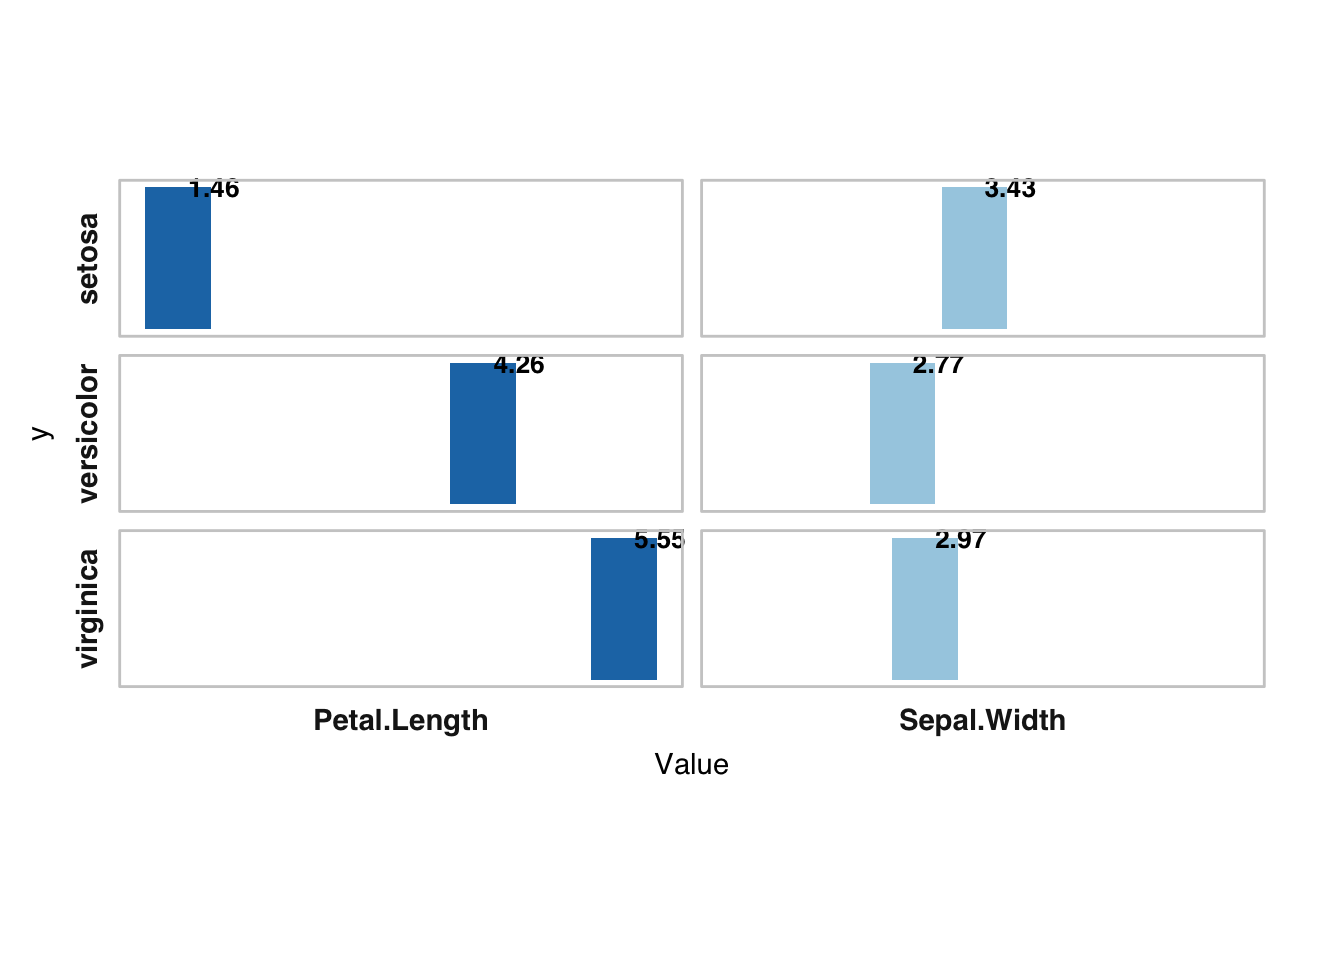
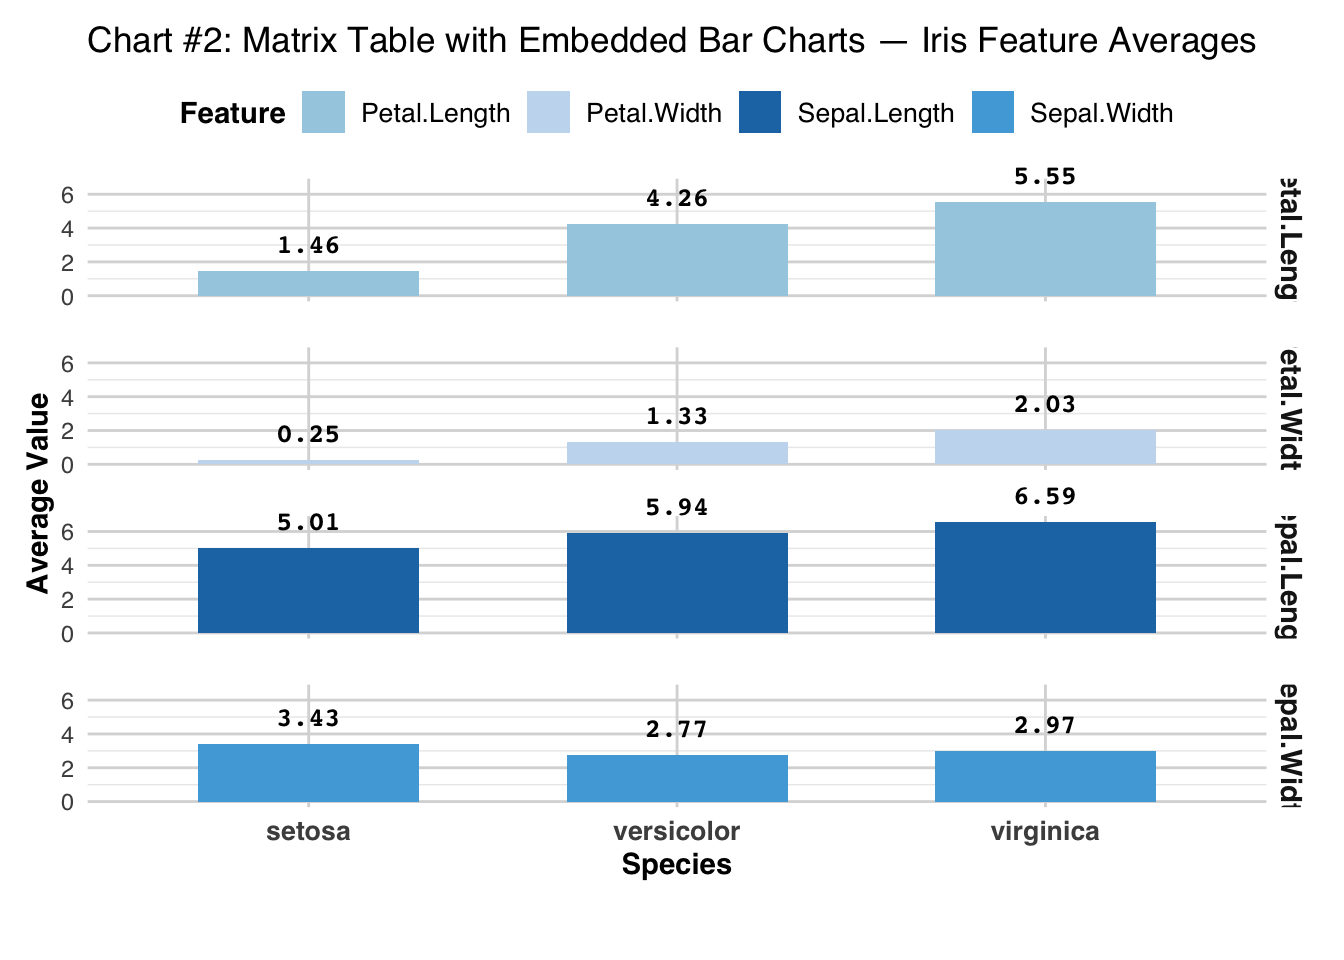
Assignment 4 Hackathon updates

diff --git a/docs/hackathon.html b/docs/hackathon.html
@@ -263,23 +263,27 @@ pre > code.sourceCode > span > a:first-child::before { text-decoration: underlin
 </div>
 </div>
 <div class="cell">
-<div class="code-copy-outer-scaffold"><div class="sourceCode cell-code" id="cb2"><pre class="sourceCode r code-with-copy"><code class="sourceCode r"><span id="cb2-1"><a href="#cb2-1" aria-hidden="true" tabindex="-1"></a>d <span class="ot">&lt;-</span> <span class="fu">reshape</span>(<span class="fu">aggregate</span>(<span class="fu">cbind</span>(Sepal.Width, Petal.Length) <span class="sc">~</span> Species, iris, mean),</span>
-<span id="cb2-2"><a href="#cb2-2" aria-hidden="true" tabindex="-1"></a>             <span class="fu">list</span>(<span class="dv">2</span><span class="sc">:</span><span class="dv">3</span>), <span class="at">v.names =</span> <span class="st">"Value"</span>, <span class="at">timevar =</span> <span class="st">"Variable"</span>,</span>
-<span id="cb2-3"><a href="#cb2-3" aria-hidden="true" tabindex="-1"></a>             <span class="at">times =</span> <span class="fu">c</span>(<span class="st">"Sepal.Width"</span>, <span class="st">"Petal.Length"</span>), <span class="at">direction =</span> <span class="st">"long"</span>)</span>
-<span id="cb2-4"><a href="#cb2-4" aria-hidden="true" tabindex="-1"></a><span class="fu">ggplot</span>(d, <span class="fu">aes</span>(<span class="at">x =</span> Value, <span class="at">y =</span> <span class="dv">1</span>, <span class="at">fill =</span> Variable)) <span class="sc">+</span></span>
+<div class="code-copy-outer-scaffold"><div class="sourceCode cell-code" id="cb2"><pre class="sourceCode r code-with-copy"><code class="sourceCode r"><span id="cb2-1"><a href="#cb2-1" aria-hidden="true" tabindex="-1"></a>d <span class="ot">&lt;-</span> <span class="fu">aggregate</span>(<span class="fu">cbind</span>(Sepal.Length, Sepal.Width, Petal.Length, Petal.Width) <span class="sc">~</span> Species, iris, mean)</span>
+<span id="cb2-2"><a href="#cb2-2" aria-hidden="true" tabindex="-1"></a>d <span class="ot">&lt;-</span> <span class="fu">reshape</span>(d, <span class="fu">list</span>(<span class="dv">2</span><span class="sc">:</span><span class="dv">5</span>), <span class="at">v.names =</span> <span class="st">"Value"</span>, <span class="at">timevar =</span> <span class="st">"Feature"</span>, <span class="at">times =</span> <span class="fu">names</span>(d)[<span class="dv">2</span><span class="sc">:</span><span class="dv">5</span>], <span class="at">direction =</span> <span class="st">"long"</span>)</span>
+<span id="cb2-3"><a href="#cb2-3" aria-hidden="true" tabindex="-1"></a></span>
+<span id="cb2-4"><a href="#cb2-4" aria-hidden="true" tabindex="-1"></a><span class="fu">ggplot</span>(d, <span class="fu">aes</span>(<span class="at">x =</span> Species, <span class="at">y =</span> Value, <span class="at">fill =</span> Feature)) <span class="sc">+</span></span>
 <span id="cb2-5"><a href="#cb2-5" aria-hidden="true" tabindex="-1"></a>  <span class="fu">geom_col</span>(<span class="at">width =</span> <span class="fl">0.6</span>) <span class="sc">+</span></span>
-<span id="cb2-6"><a href="#cb2-6" aria-hidden="true" tabindex="-1"></a>  <span class="fu">geom_text</span>(<span class="fu">aes</span>(<span class="at">label =</span> <span class="fu">round</span>(Value, <span class="dv">2</span>)), <span class="at">hjust =</span> <span class="sc">-</span><span class="fl">0.2</span>, <span class="at">color =</span> <span class="st">"black"</span>, <span class="at">size =</span> <span class="fl">3.5</span>, <span class="at">fontface =</span> <span class="st">"bold"</span>) <span class="sc">+</span></span>
-<span id="cb2-7"><a href="#cb2-7" aria-hidden="true" tabindex="-1"></a>  <span class="fu">facet_grid</span>(Species <span class="sc">~</span> Variable, <span class="at">switch =</span> <span class="st">"both"</span>) <span class="sc">+</span></span>
-<span id="cb2-8"><a href="#cb2-8" aria-hidden="true" tabindex="-1"></a>  <span class="fu">coord_fixed</span>(<span class="at">ratio =</span> <span class="fl">1.3</span>, <span class="at">clip =</span> <span class="st">"off"</span>) <span class="sc">+</span></span>
-<span id="cb2-9"><a href="#cb2-9" aria-hidden="true" tabindex="-1"></a>  <span class="fu">scale_fill_manual</span>(<span class="at">values =</span> <span class="fu">c</span>(<span class="at">Sepal.Width =</span> <span class="st">"#a6cee3"</span>, <span class="at">Petal.Length =</span> <span class="st">"#1f77b4"</span>)) <span class="sc">+</span></span>
-<span id="cb2-10"><a href="#cb2-10" aria-hidden="true" tabindex="-1"></a>  <span class="fu">theme_minimal</span>(<span class="at">base_family =</span> <span class="st">"sans"</span>) <span class="sc">+</span></span>
-<span id="cb2-11"><a href="#cb2-11" aria-hidden="true" tabindex="-1"></a>  <span class="fu">theme</span>(<span class="at">panel.border =</span> <span class="fu">element_rect</span>(<span class="at">color =</span> <span class="st">"gray80"</span>, <span class="at">fill =</span> <span class="cn">NA</span>),</span>
-<span id="cb2-12"><a href="#cb2-12" aria-hidden="true" tabindex="-1"></a>        <span class="at">panel.spacing =</span> <span class="fu">unit</span>(<span class="fl">0.5</span>, <span class="st">"lines"</span>),</span>
-<span id="cb2-13"><a href="#cb2-13" aria-hidden="true" tabindex="-1"></a>        <span class="at">strip.placement =</span> <span class="st">"outside"</span>,</span>
-<span id="cb2-14"><a href="#cb2-14" aria-hidden="true" tabindex="-1"></a>        <span class="at">strip.text =</span> <span class="fu">element_text</span>(<span class="at">face =</span> <span class="st">"bold"</span>, <span class="at">size =</span> <span class="dv">11</span>),</span>
-<span id="cb2-15"><a href="#cb2-15" aria-hidden="true" tabindex="-1"></a>        <span class="at">axis.text =</span> <span class="fu">element_blank</span>(), <span class="at">axis.ticks =</span> <span class="fu">element_blank</span>(),</span>
-<span id="cb2-16"><a href="#cb2-16" aria-hidden="true" tabindex="-1"></a>        <span class="at">panel.grid =</span> <span class="fu">element_blank</span>(), <span class="at">legend.position =</span> <span class="st">"none"</span>,</span>
-<span id="cb2-17"><a href="#cb2-17" aria-hidden="true" tabindex="-1"></a>        <span class="at">plot.margin =</span> <span class="fu">margin</span>(<span class="dv">10</span>, <span class="dv">30</span>, <span class="dv">10</span>, <span class="dv">10</span>))</span></code></pre></div><button title="Copy to Clipboard" class="code-copy-button"><i class="bi"></i></button></div>
+<span id="cb2-6"><a href="#cb2-6" aria-hidden="true" tabindex="-1"></a>  <span class="fu">geom_text</span>(<span class="fu">aes</span>(<span class="at">label =</span> <span class="fu">round</span>(Value, <span class="dv">2</span>)), <span class="at">vjust =</span> <span class="sc">-</span><span class="fl">1.2</span>, <span class="at">size =</span> <span class="fl">3.5</span>, <span class="at">family =</span> <span class="st">"mono"</span>, <span class="at">fontface =</span> <span class="st">"bold"</span>, <span class="at">color =</span> <span class="st">"black"</span>) <span class="sc">+</span></span>
+<span id="cb2-7"><a href="#cb2-7" aria-hidden="true" tabindex="-1"></a>  <span class="fu">facet_grid</span>(Feature <span class="sc">~</span> .) <span class="sc">+</span></span>
+<span id="cb2-8"><a href="#cb2-8" aria-hidden="true" tabindex="-1"></a>  <span class="fu">scale_fill_manual</span>(<span class="at">values =</span> <span class="fu">c</span>(<span class="at">Sepal.Length =</span> <span class="st">"#1f77b4"</span>, <span class="at">Sepal.Width =</span> <span class="st">"#4fa9dc"</span>, <span class="at">Petal.Length =</span> <span class="st">"#a6cee3"</span>, <span class="at">Petal.Width =</span> <span class="st">"#c6dbef"</span>)) <span class="sc">+</span></span>
+<span id="cb2-9"><a href="#cb2-9" aria-hidden="true" tabindex="-1"></a>  <span class="fu">labs</span>(<span class="at">title =</span> <span class="st">"Chart #2: Matrix Table with Embedded Bar Charts — Iris Feature Averages"</span>, <span class="at">x =</span> <span class="st">"Species"</span>, <span class="at">y =</span> <span class="st">"Average Value"</span>, <span class="at">fill =</span> <span class="st">"Feature"</span>) <span class="sc">+</span></span>
+<span id="cb2-10"><a href="#cb2-10" aria-hidden="true" tabindex="-1"></a>  <span class="fu">coord_cartesian</span>(<span class="at">clip =</span> <span class="st">"off"</span>) <span class="sc">+</span></span>
+<span id="cb2-11"><a href="#cb2-11" aria-hidden="true" tabindex="-1"></a>  <span class="fu">theme_minimal</span>(<span class="at">base_family =</span> <span class="st">"sans"</span>) <span class="sc">+</span></span>
+<span id="cb2-12"><a href="#cb2-12" aria-hidden="true" tabindex="-1"></a>  <span class="fu">theme</span>(<span class="at">strip.text =</span> <span class="fu">element_text</span>(<span class="at">face =</span> <span class="st">"bold"</span>, <span class="at">size =</span> <span class="dv">11</span>),</span>
+<span id="cb2-13"><a href="#cb2-13" aria-hidden="true" tabindex="-1"></a>        <span class="at">axis.text.x =</span> <span class="fu">element_text</span>(<span class="at">face =</span> <span class="st">"bold"</span>, <span class="at">size =</span> <span class="dv">10</span>),</span>
+<span id="cb2-14"><a href="#cb2-14" aria-hidden="true" tabindex="-1"></a>        <span class="at">axis.title.x =</span> <span class="fu">element_text</span>(<span class="at">face =</span> <span class="st">"bold"</span>),</span>
+<span id="cb2-15"><a href="#cb2-15" aria-hidden="true" tabindex="-1"></a>        <span class="at">axis.title.y =</span> <span class="fu">element_text</span>(<span class="at">face =</span> <span class="st">"bold"</span>),</span>
+<span id="cb2-16"><a href="#cb2-16" aria-hidden="true" tabindex="-1"></a>        <span class="at">panel.grid.major =</span> <span class="fu">element_line</span>(<span class="at">color =</span> <span class="st">"gray85"</span>),</span>
+<span id="cb2-17"><a href="#cb2-17" aria-hidden="true" tabindex="-1"></a>        <span class="at">panel.spacing.y =</span> <span class="fu">unit</span>(<span class="fl">1.2</span>, <span class="st">"lines"</span>),</span>
+<span id="cb2-18"><a href="#cb2-18" aria-hidden="true" tabindex="-1"></a>        <span class="at">plot.margin =</span> <span class="fu">margin</span>(<span class="dv">10</span>, <span class="dv">10</span>, <span class="dv">30</span>, <span class="dv">10</span>),</span>
+<span id="cb2-19"><a href="#cb2-19" aria-hidden="true" tabindex="-1"></a>        <span class="at">legend.position =</span> <span class="st">"top"</span>,</span>
+<span id="cb2-20"><a href="#cb2-20" aria-hidden="true" tabindex="-1"></a>        <span class="at">legend.title =</span> <span class="fu">element_text</span>(<span class="at">face =</span> <span class="st">"bold"</span>),</span>
+<span id="cb2-21"><a href="#cb2-21" aria-hidden="true" tabindex="-1"></a>        <span class="at">legend.text =</span> <span class="fu">element_text</span>(<span class="at">size =</span> <span class="dv">10</span>))</span></code></pre></div><button title="Copy to Clipboard" class="code-copy-button"><i class="bi"></i></button></div>
 <div class="cell-output-display">
 <div>
 <figure class="figure">
